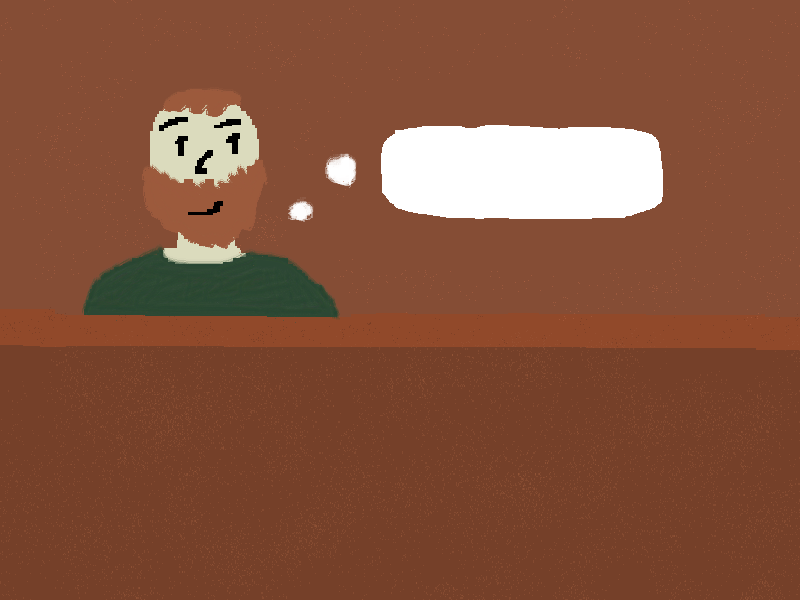
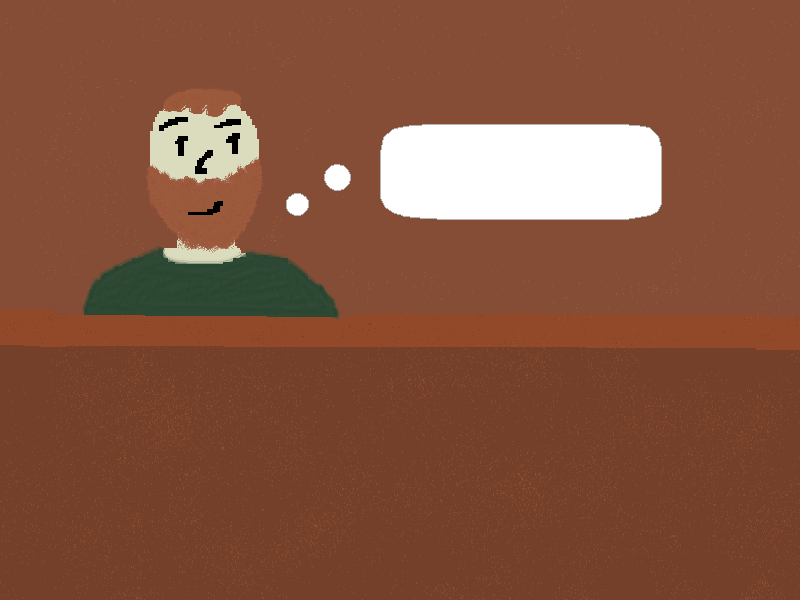
Credits hotovy! Uprava textur barmana a upraveni hlášek všech shopu

diff --git a/hra.py b/hra.py
@@ -474,7 +474,7 @@ statistika_velikost = 20
 exit_bar_velikost = 40
 info_barman_velikost = 30
 drink_cena_velikost = 30
-hlaska_barman_velikost = 26
+hlaska_barman_velikost = 30
 barman_hlaska = None
 exit_shop_s_jidlem_velikost = 40
 jidlo_cena_velikost = 30
@@ -1176,6 +1176,15 @@ paypal_ikona_rect = paypal_ikona.get_rect(center=(700, 560))
 github_ikona = pygame.image.load("github_ikona.png")
 github_ikona_rect = github_ikona.get_rect(center=(760, 560))
 
+instagram_ikona_vetsi = pygame.image.load("instagram_ikona_vetsi.png")
+instagram_ikona_vetsi_rect = instagram_ikona_vetsi.get_rect(center=(640, 560))
+
+paypal_ikona_vetsi = pygame.image.load("paypal_ikona_vetsi.png")
+paypal_ikona_vetsi_rect = paypal_ikona_vetsi.get_rect(center=(700, 560))
+
+github_ikona_vetsi = pygame.image.load("github_ikona_vetsi.png")
+github_ikona_vetsi_rect = github_ikona_vetsi.get_rect(center=(760, 560))
+
 #Animace
 hra = False
 menu = False
@@ -1297,7 +1306,7 @@ hlaska_boruvky_text = hlaska_boruvky_font.render(boruvky_hlaska, True, cerna)
 #game saved
 
 save_text_cas = 0
-save_text_doba = 2000
+save_text_doba = 1500
 save_text_zobrazit = False
 
 
@@ -1431,6 +1440,12 @@ while not menu and not animace_start:
                 
             if github_ikona_rect.collidepoint(mys_pozice):
                 webbrowser.open(r"https://github.com/stiburekf25")
+            
+            if instagram_ikona_rect.collidepoint(mys_pozice):
+                webbrowser.open(r"https://www.instagram.com/filipstiburek._/")
+                
+            if paypal_ikona_rect.collidepoint(mys_pozice):
+                webbrowser.open(r"https://www.paypal.com/paypalme/CibulekJede")
                 
     kurzor_hand = False
     mys_pozice = pygame.mouse.get_pos()
@@ -1470,6 +1485,7 @@ while not menu and not animace_start:
         else:
             okno.blit(quit_tlacitko_vetsi, quit_tlacitko_vetsi_rect)
             
+            
         summer_text = napis_hry_font.render("SUMMER", True, cerna)
         okno.blit(summer_text, ( 210, 1))
         za_summer_text = za_napis_hry_font.render("SUMMER", True, bila)
@@ -1483,6 +1499,22 @@ while not menu and not animace_start:
         okno.blit(paypal_ikona, (paypal_ikona_rect))
         okno.blit(github_ikona, (github_ikona_rect))
         
+        if not instagram_ikona_rect.collidepoint(mys_pozice):
+            okno.blit(instagram_ikona, instagram_ikona_rect)
+        else:
+            okno.blit(instagram_ikona_vetsi, instagram_ikona_vetsi_rect)
+            
+        if not paypal_ikona_rect.collidepoint(mys_pozice):
+            okno.blit(paypal_ikona, paypal_ikona_rect)
+        else:
+            okno.blit(paypal_ikona_vetsi, paypal_ikona_vetsi_rect)
+        
+        if not github_ikona_rect.collidepoint(mys_pozice):
+            okno.blit(github_ikona, github_ikona_rect)
+        else:
+            okno.blit(github_ikona_vetsi, github_ikona_vetsi_rect)
+            
+            
     clock.tick(60)
     pygame.display.flip()
 
@@ -4789,7 +4821,7 @@ while hra is True:
         if pygame.time.get_ticks() - save_text_cas < save_text_doba:
             save_font = pygame.font.SysFont("Aharoni", 40)
             save_text = save_font.render("GAME SAVED!", True, bila)
-            save_rect = save_text.get_rect(center=(okno_sirka // 2, 300))
+            save_rect = save_text.get_rect(center=(okno_sirka // 2, 85))
             okno.blit(save_text, save_rect)
         else:
             save_text_zobrazit = False    
